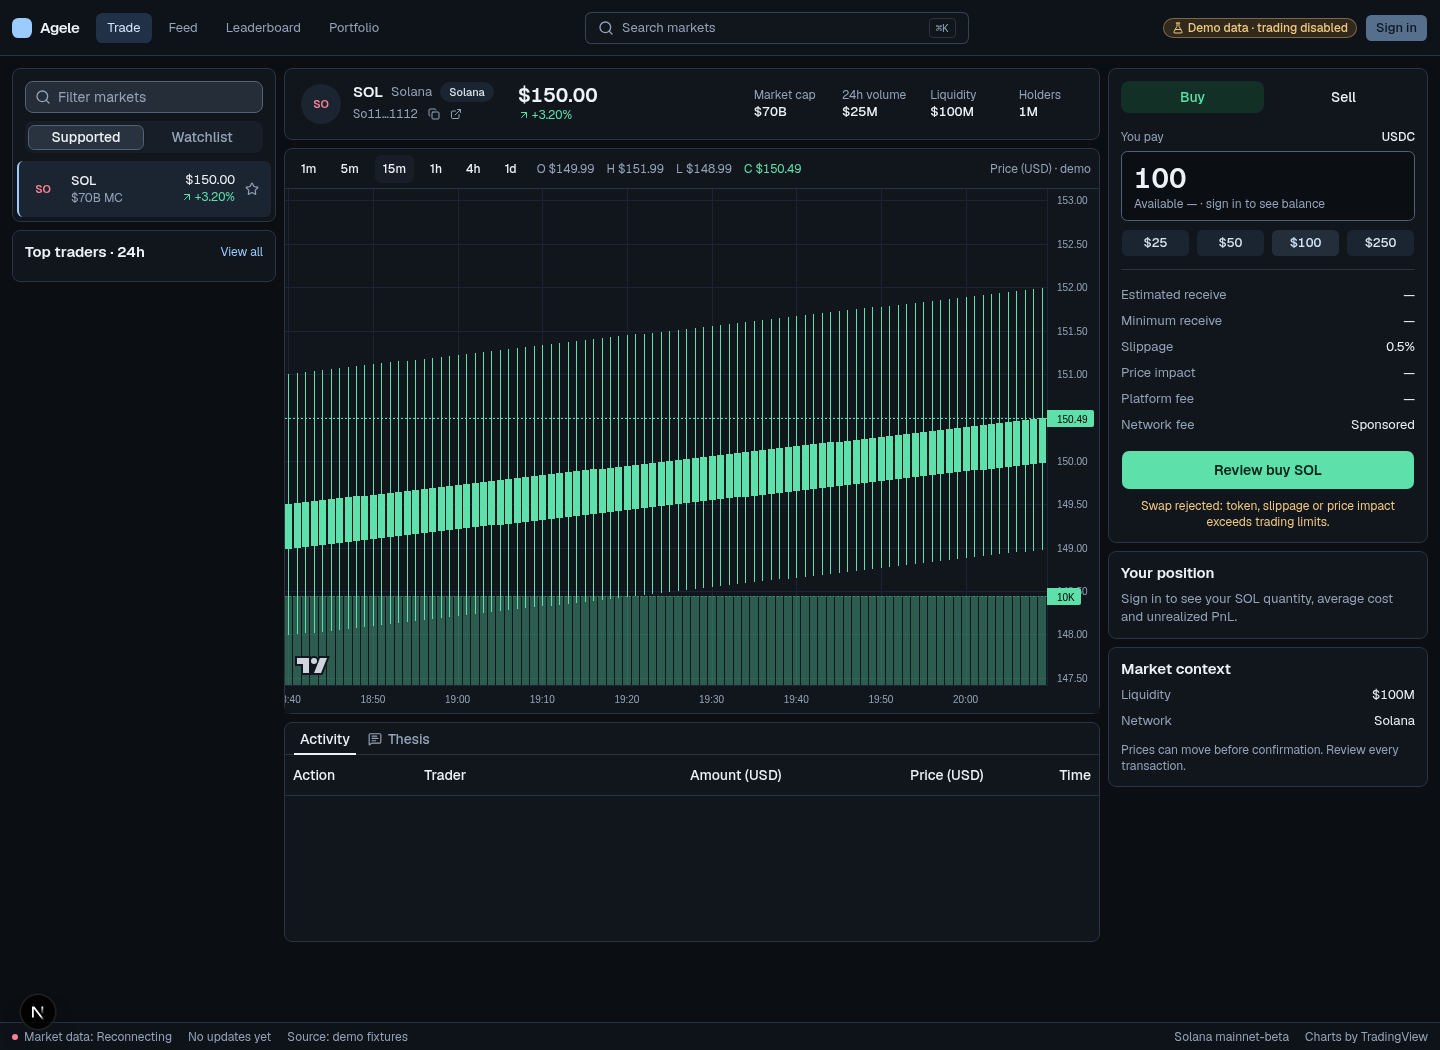
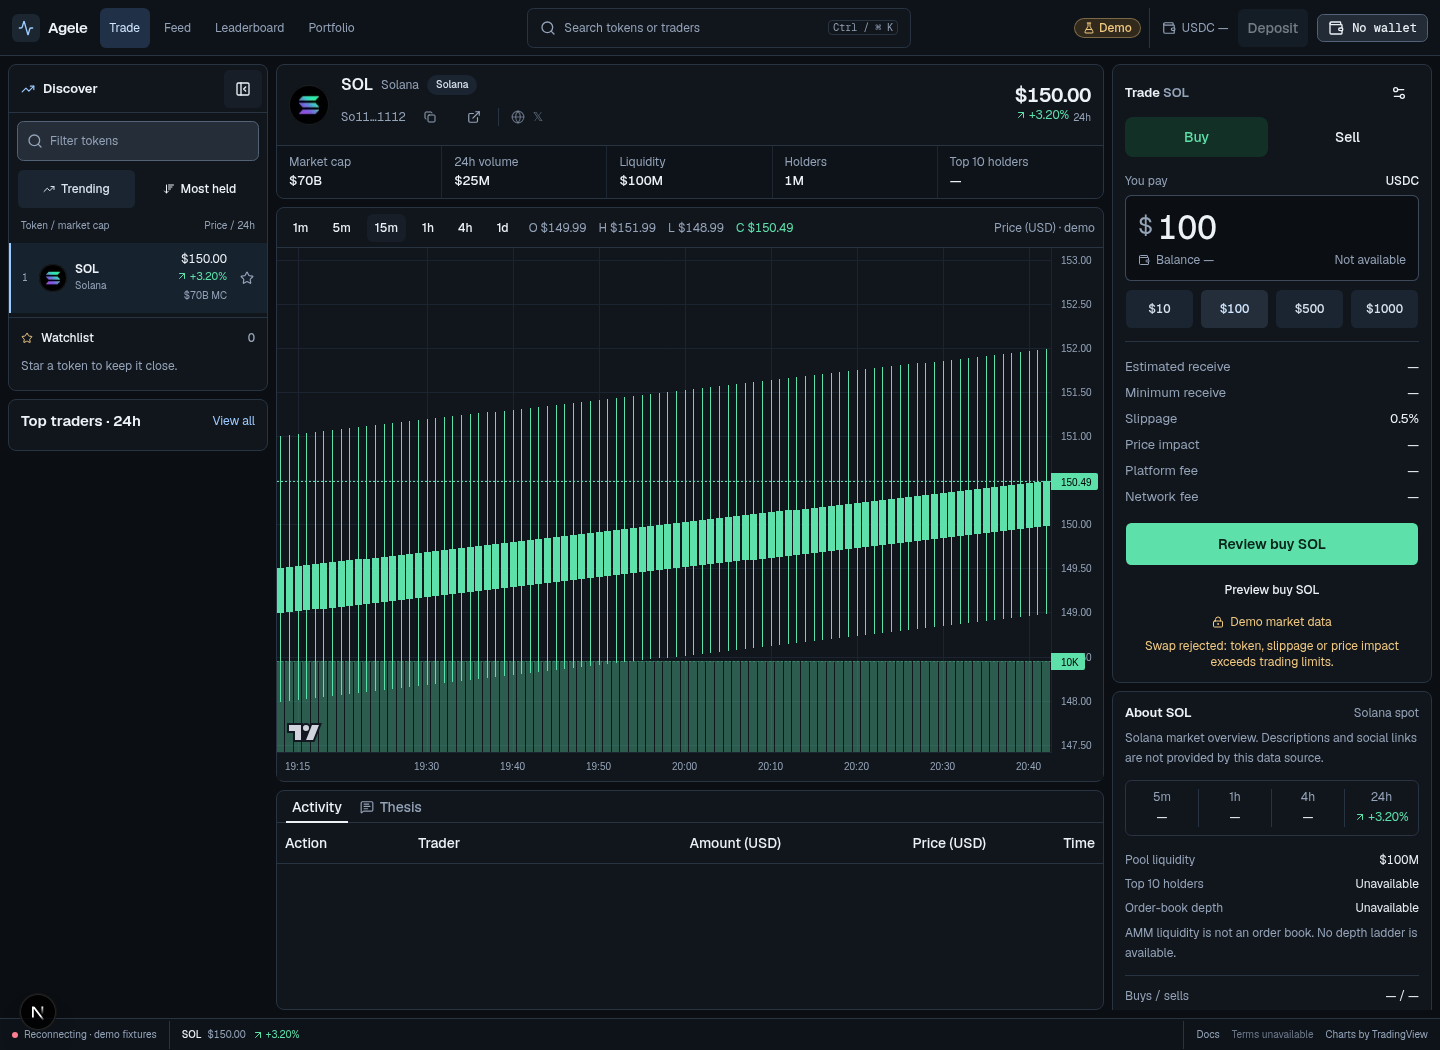
docs(trading): refresh swap screenshots

diff --git a/docs/swaps.md b/docs/swaps.md
@@ -122,7 +122,11 @@ The merged backend bounds Redis operations with deadlines. Sponsor-store failure
 | -------------- | ----------- |
 | ![422 swap rejected message](images/swap-rejected.png) | ![Sell review with numeric USD value](images/swap-sell-review.png) |
 
-These screenshots use a throwaway local HTTP mock API and the real frontend with `NEXT_PUBLIC_API_URL=http://localhost:4100`, signed out and without a Privy app ID. “Server quote” here means a response from that mock, not a live Jupiter quote. The mock supplies market endpoints plus the agreed swap contract and switches quote responses between success, `503 trading_disabled` and `422 swap_rejected`. No auth context was stubbed. Wallet signing, authenticated submission, confirmation toast and real on-chain execution were not exercised by these screenshots; orchestration is covered by Vitest tests.
+These screenshots show the redesigned ticket from main using a throwaway local HTTP mock API with `NEXT_PUBLIC_API_URL=http://localhost:4100`. “Server quote” here means a response from that mock, not a live Jupiter quote. A temporary screenshot-only signed-in auth-context fixture enables Review and Confirm without a Privy app ID, real identity or wallet; it was removed before checks and is not committed. Balances and positions remain unavailable.
+
+The mock supplies market endpoints and successful quotes, or `422 swap_rejected` on quote for the rejection screenshot. For both trading-disabled screenshots, quote succeeds and clicking Confirm sends `POST /v1/swaps`, which returns `503 trading_disabled` before signing. The existing quote amounts remain visible, Network fee changes to a dash, and Confirm becomes disabled. The ticket screenshot is captured after closing that review; the disabled review is then reopened. Sell review verifies a numeric **$1,500.00** Value for 10 SOL. Each PNG was visually inspected after capture.
+
+Real authentication, wallet signing, transaction submission, confirmation toast and on-chain execution were not exercised by these screenshots; orchestration is covered by Vitest tests.
 
 ## Configuration and checks
 
